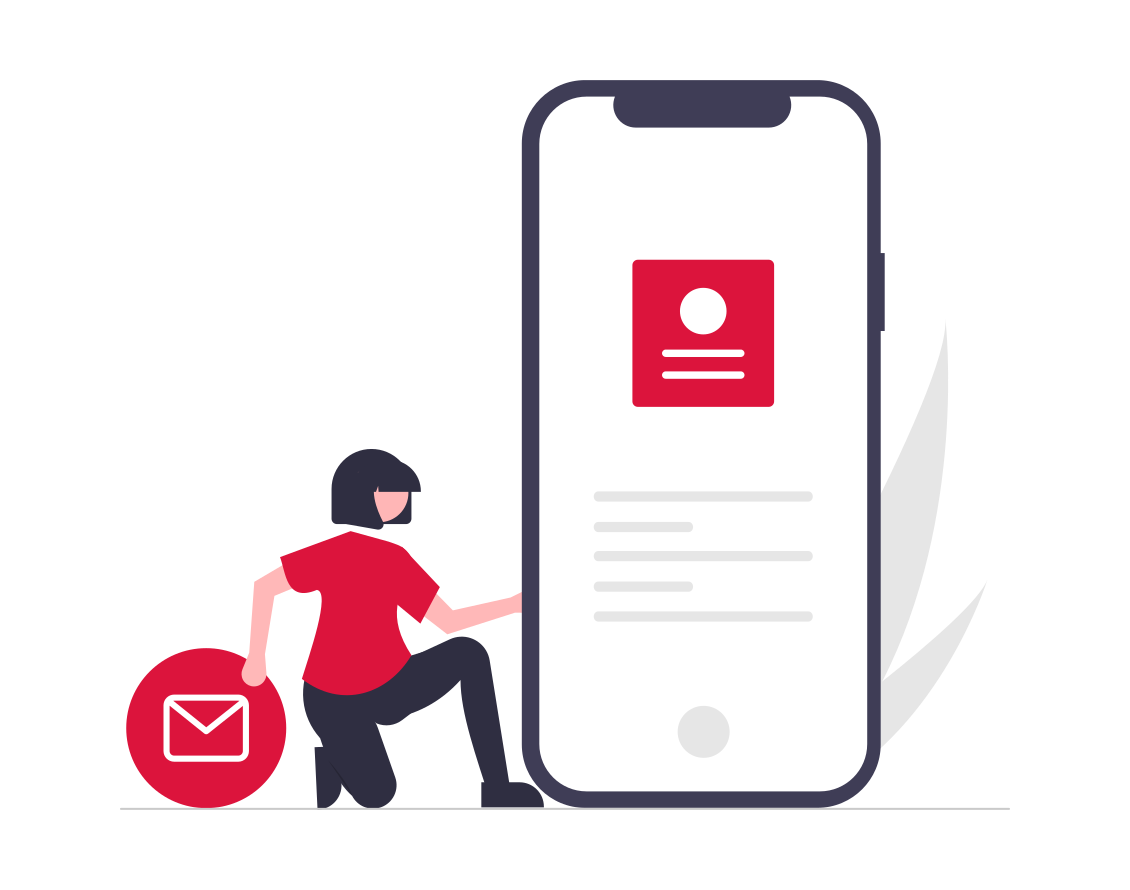
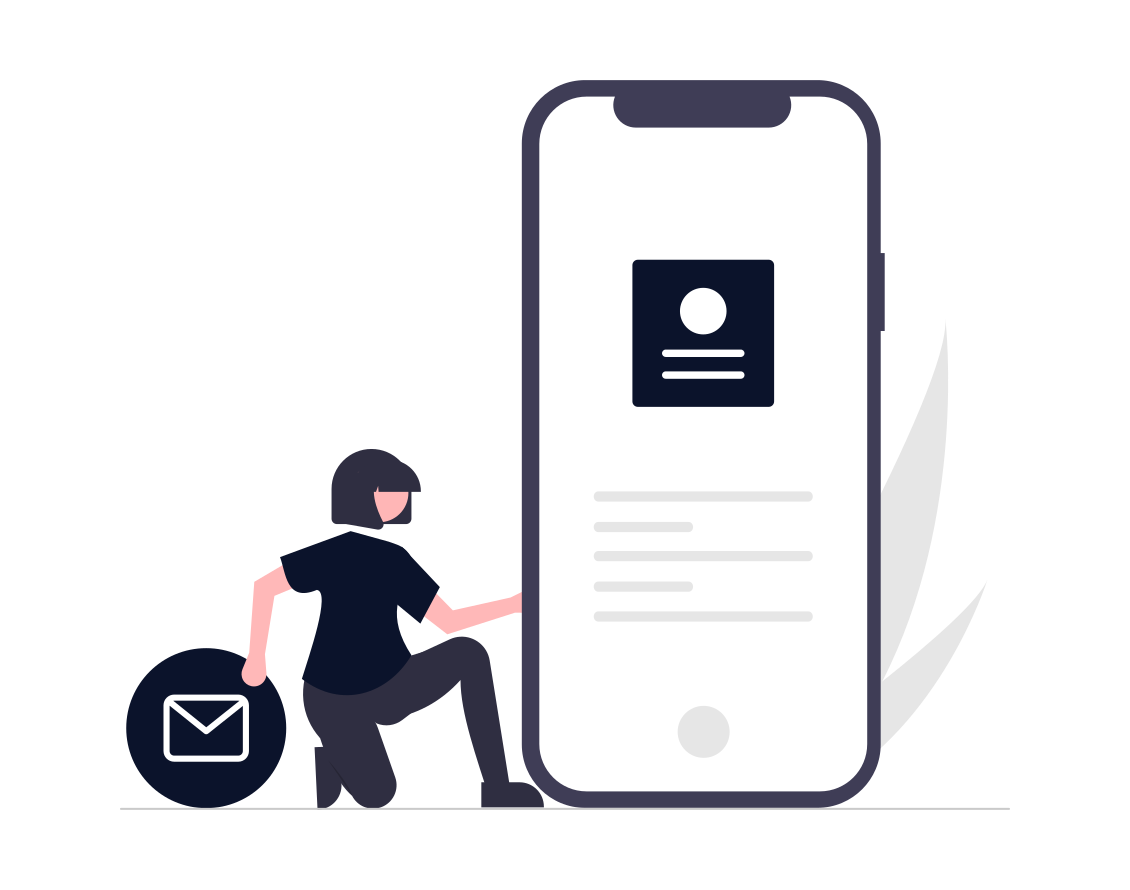
Unified color palletes and certain hover animations

Changed region(s): [[0.0929, 0.5764, 0.4027, 0.9101], [0.5575, 0.273, 0.7124, 0.4551]]

diff --git a/src/components/project/project.scss b/src/components/project/project.scss
@@ -25,6 +25,7 @@
             display: flex;
             justify-content: center;
             align-items: center;
+            transition: 0.2s;
 
             .project {
                 display: flex;
@@ -32,7 +33,7 @@
                 align-items: center;
                 width: 900px;
                 height: 100%;
-                background-color: crimson;
+                background-color: #0B132B;
                 border-radius: 20px;
 
                 .project-left-container {
@@ -56,8 +57,8 @@
                     }
 
                     h2 {
-                        font-size: 30px;
-                        font-family: "Matemasie", sans-serif;
+                        font-size: 35px;
+                        font-family: "Lilita One", sans-serif;
                         text-align: center;
                         color: white;
                         letter-spacing: 1.2px;
@@ -146,6 +147,10 @@
 
                 }
             }
+        }
+
+        .project-container:hover {
+            opacity: 0.95;
         }
     }
 

diff --git a/src/components/skillcard/skillcard.scss b/src/components/skillcard/skillcard.scss
@@ -2,7 +2,7 @@
     height: 500px;
     width: 400px;
     border-radius: 25px;
-    background-color: #11151C;
+    background-color: #0B132B;
     display: flex;
     flex-direction: column;
     margin: 5px;
@@ -17,9 +17,8 @@
 
         .skill-head {
             font-size: 40px;
-            font-family: "Matemasie", sans-serif;
+            font-family: "Lilita One", sans-serif;
             text-align: center;
-            
             color: #E6E8E6;
         }
     }
@@ -46,7 +45,6 @@
                 font-family: "Poppins", sans-serif;
                 font-size: 15px;
                 color: #E6E8E6;
-                // margin: 2px 4px;
                 text-align: center;
             }
             

diff --git a/src/components/contact/contact.scss b/src/components/contact/contact.scss
@@ -58,7 +58,7 @@
                 font-family: "Poppins", sans-serif;
                 font-weight: 700;
                 color: white;
-                background-color: crimson;
+                background-color: #0B132B;
                 border: none;
                 border-radius: 20px;
                 cursor: pointer;
@@ -66,6 +66,10 @@
                 &:focus {
                     outline: none;
                 }
+            }
+
+            button:hover {
+                opacity: 0.9;
             }
 
             span {
